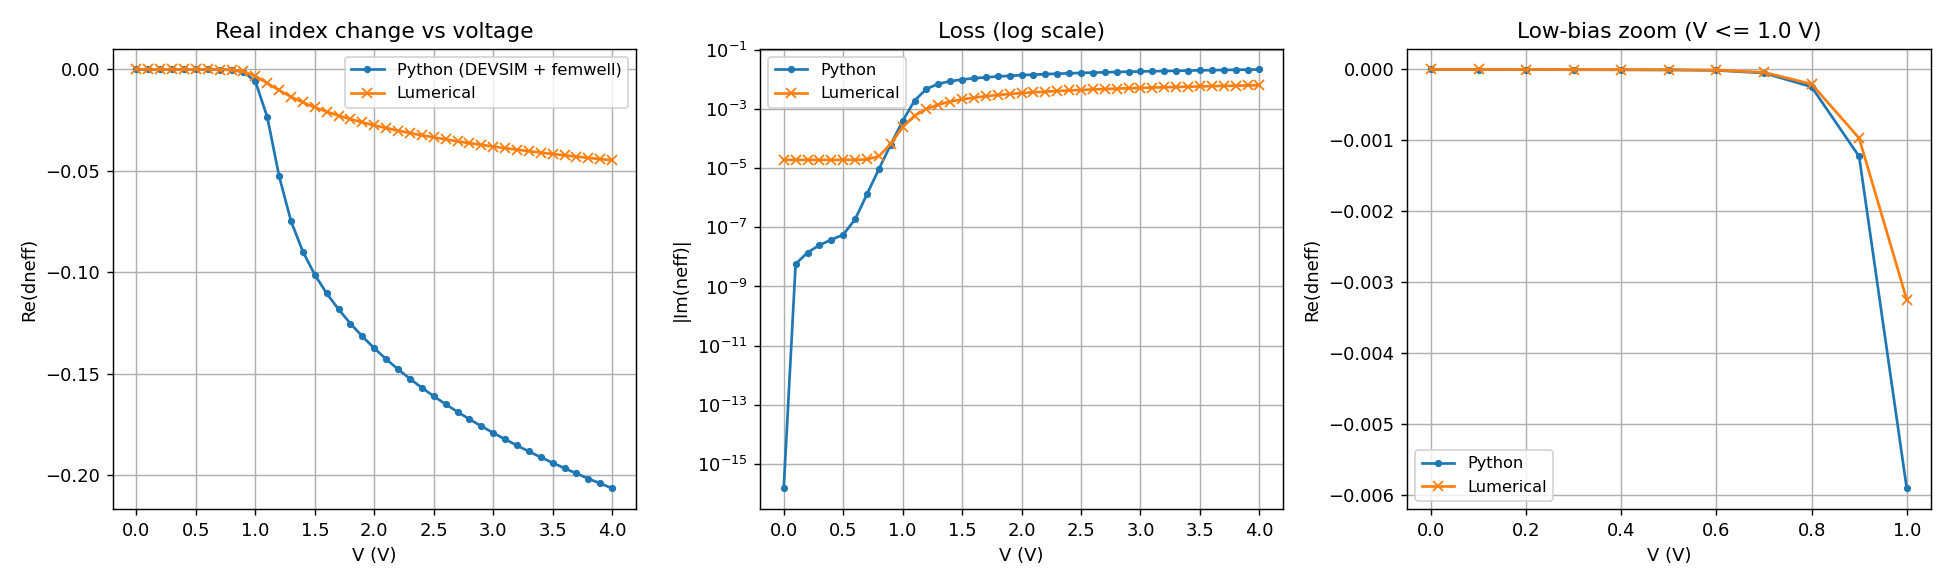
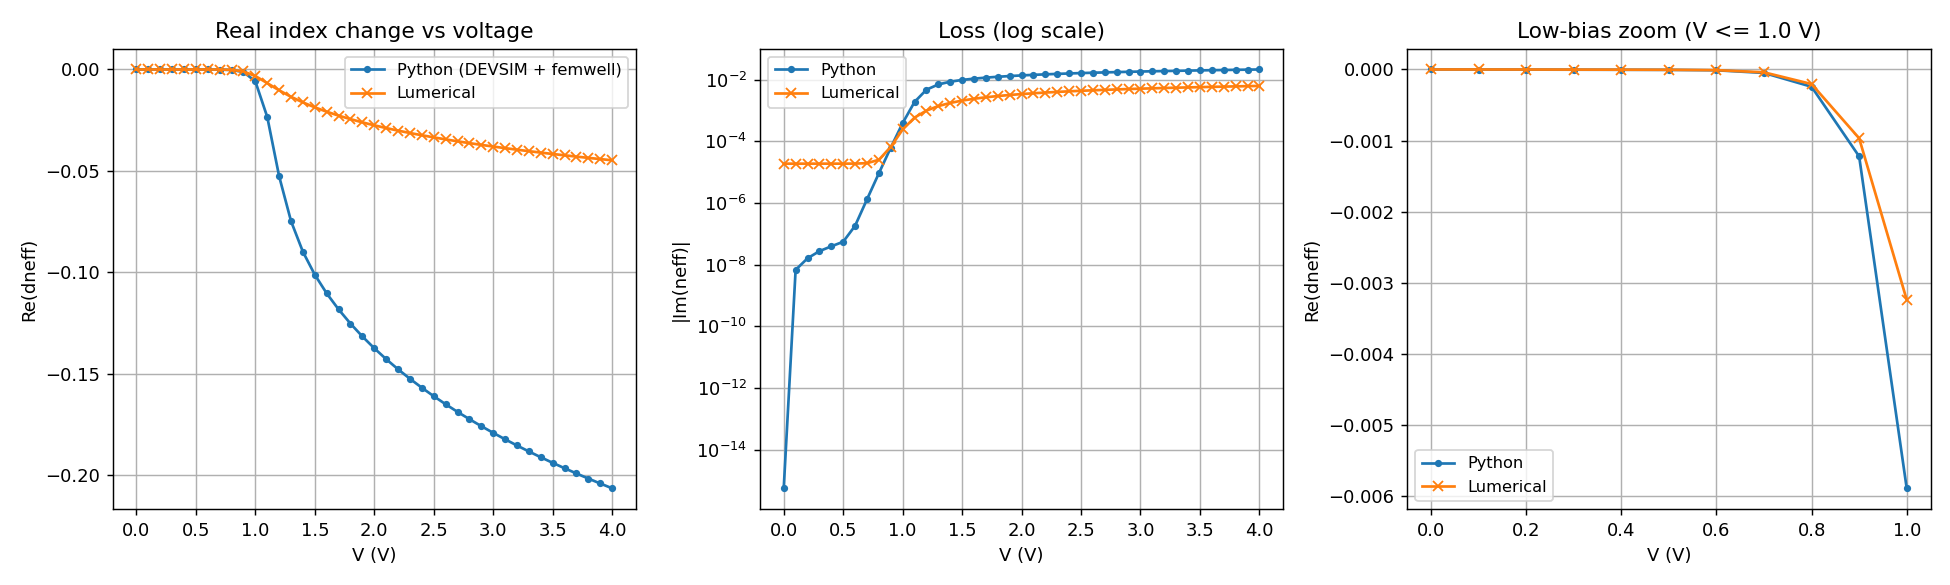
Try some more improvements to the model

diff --git a/src/mode_sim.py b/src/mode_sim.py
@@ -94,10 +94,13 @@ def make_perturbation_callable(
 ):
     """Return a callable dn_complex(x_um, y_um) for a single voltage step.
 
-    Subtracts the V = 0 baseline from the carrier fields, applies
-    Soref-Bennett, converts dalpha to imag(n) via lambda/(4pi), and wraps the result
-    in a RegularGridInterpolator. The callable is what
-    ``basis.project(...)`` consumes to assemble a per-element perturbation.
+    Applies Soref-Bennett to the absolute carrier densities at voltage V and
+    at V=0, then takes the difference. This correctly handles the non-linear
+    hole term (Nh^0.8): applying it to a delta instead of to absolute values
+    inflates the result by up to ~100x at low bias where p(V) ~ p(0).
+    Converts dalpha to imag(n) via lambda/(4pi) and wraps the result in a
+    RegularGridInterpolator. The callable is what ``basis.project(...)``
+    consumes to assemble a per-element perturbation.
 
     Args:
         x_si, y_si: carrier-grid coordinates in metres (from carriers.npz).
@@ -109,9 +112,17 @@ def make_perturbation_callable(
         A function mapping micron-scale (x, y) -> complex dn. Both inputs may
         be scalars or arrays.
     """
-    dNe = (n_field[v_idx] - n_field[0]) * 1e-6  # m^-3 -> cm^-3
-    dNh = (p_field[v_idx] - p_field[0]) * 1e-6
-    dn_real, da = soref_bennett(dNe, dNh)
+    # Apply SB to absolute carrier densities, then difference against V=0.
+    # Applying the power-law hole term to the *delta* is only accurate when
+    # p(V) >> p(0); at low bias (p(V) ~ p(0)) it inflates dn_h by up to 100x.
+    Ne_v = n_field[v_idx] * 1e-6   # m^-3 -> cm^-3
+    Nh_v = p_field[v_idx] * 1e-6
+    Ne_0 = n_field[0] * 1e-6
+    Nh_0 = p_field[0] * 1e-6
+    dn_v, da_v = soref_bennett(Ne_v, Nh_v)
+    dn_0, da_0 = soref_bennett(Ne_0, Nh_0)
+    dn_real = dn_v - dn_0
+    da = da_v - da_0
     # imag(n) = alpha [1/cm] x lambda [cm] / (4pi), where alpha is intensity absorption.
     wavelength_cm = p.WAVELENGTH * 1e2
     dn_imag = da * wavelength_cm / (4 * np.pi)

diff --git a/src/physics.py b/src/physics.py
@@ -53,22 +53,27 @@ SRH_GAMMA = 1.0
 SRV_SI_SIO2 = 0.0    # cm/s -- disabled; see comment above
 
 
-def soref_bennett(dNe: np.ndarray, dNh: np.ndarray) -> tuple[np.ndarray, np.ndarray]:
-    """Compute dn and dalpha from carrier-density changes.
+def soref_bennett(Ne: np.ndarray, Nh: np.ndarray) -> tuple[np.ndarray, np.ndarray]:
+    """Compute dn and dalpha from carrier densities using the Soref-Bennett model.
 
     Args:
-        dNe: change in electron density vs equilibrium [cm^-3].
-        dNh: change in hole density vs equilibrium [cm^-3].
+        Ne: electron carrier density [cm^-3]. May be absolute or a delta; the
+            formula is linear in Ne so both give consistent results when used
+            consistently. Pass absolute densities and subtract the V=0 result
+            to correctly handle the non-linear (power-law) hole term.
+        Nh: hole carrier density [cm^-3]. The power-law exponent (0.8) means
+            applying this to a delta (p(V)-p(0)) is only accurate when
+            p(V) >> p(0). For the general case, call this function twice --
+            once with absolute densities at V and once at V=0 -- and subtract.
 
     Returns:
         ``(dn, dalpha)`` - real-index change [dimensionless] and intensity
-        absorption change [1/cm]. Positive carrier density gives negative dn
-        (carriers lower the index) and positive dalpha (carriers add loss).
-        Negative dN is clipped to 0 in the hole power-law term, which is
-        defined only for positive arguments.
+        absorption change [1/cm]. Larger carrier density gives more negative dn
+        (free carriers reduce the index) and positive dalpha (adds loss).
+        Negative Nh is clipped to 0 in the power-law term.
     """
-    dn = -SB_DN_E * dNe - SB_DN_H_A * np.power(np.maximum(dNh, 0.0), SB_DN_H_B)
-    da = SB_DA_E * dNe + SB_DA_H * dNh
+    dn = -SB_DN_E * Ne - SB_DN_H_A * np.power(np.maximum(Nh, 0.0), SB_DN_H_B)
+    da = SB_DA_E * Ne + SB_DA_H * Nh
     return dn, da
 
 

diff --git a/src/charge_sim.py b/src/charge_sim.py
@@ -218,7 +218,12 @@ def set_doping() -> None:
     p_right = (p.x_center_p + p.x_span_p / 2) * M2CM
     n_left = (p.x_center_n - p.x_span_n / 2) * M2CM
     n_right = (p.x_center_n + p.x_span_n / 2) * M2CM
-    sigma_y = p.thick_slab / 3.0 * M2CM
+    # Lumerical adddiffusion Gaussian: N(y) = surface_conc * exp(-((y_top-y)/sigma)^2)
+    # At y = 0: N = ref_conc => sigma = slab / sqrt(ln(surface_conc / ref_conc)).
+    # Both p++ and n++ share the same surface/ref concentrations.
+    sigma_y = (
+        p.thick_slab / np.sqrt(np.log(p.surface_conc_p / p.reference_conc_p))
+    ) * M2CM
     y_top = p.thick_slab * M2CM  # implant source face (LSF face_p = 5 = upper z)
     conc_p_cm3 = p.surface_conc_p * M3_TO_CM3
     conc_n_cm3 = p.surface_conc_n * M3_TO_CM3
@@ -227,7 +232,9 @@ def set_doping() -> None:
         """Return a DEVSIM expression for an implant profile.
 
         Step function in x within ``[xl, xr]``; Gaussian in y decaying from
-        ``y_top`` downward with the shared sigma.
+        ``y_top`` downward. sigma is derived from the Lumerical adddiffusion
+        parameters: surface_conc / ref_conc over the slab depth, matching
+        the profile exactly (not a free parameter).
         """
         return (
             f"{conc:.6e}"